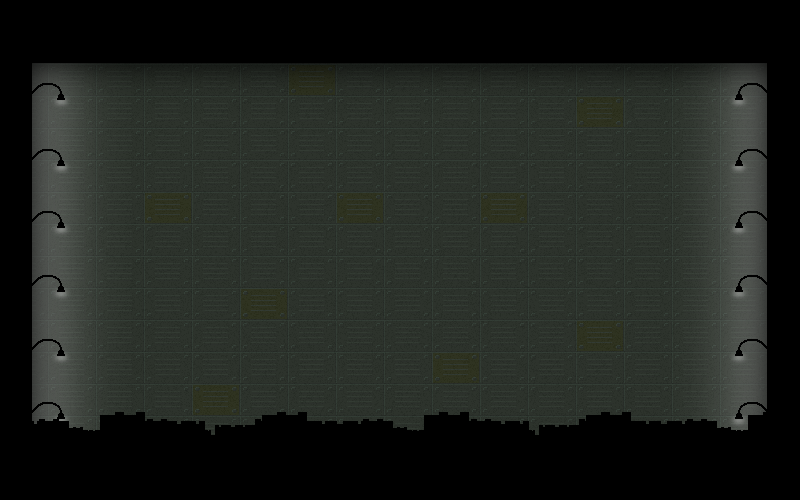
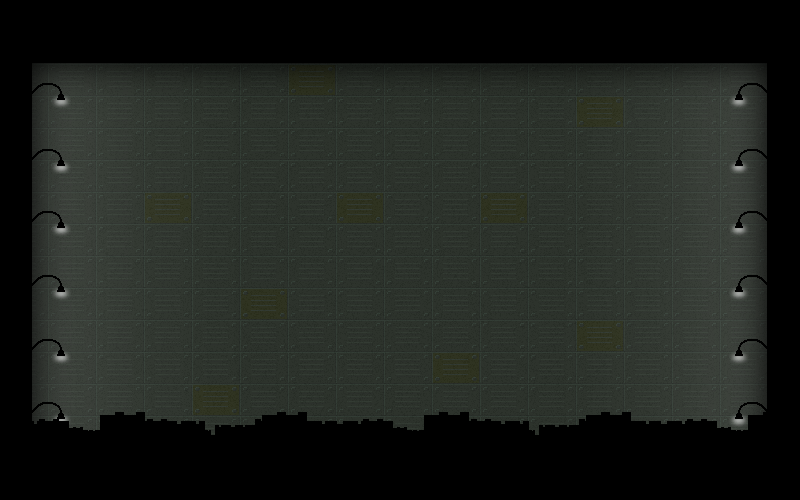
More city, needs walls, will do in the morrow

Changed region(s): [[0.0312, 0.15, 0.0938, 0.84], [0.9062, 0.18, 0.9688, 0.84]]

diff --git a/src/game/Game.js b/src/game/Game.js
@@ -79,8 +79,10 @@ Game = function()
   }; 
   
   
-	if (!is_server)
-		this.map = load_image("map.png");
+	if (!is_server) {
+    this.map = load_image("map.png");
+    this.foreground = load_image("fore.png");
+  }
 }
 
 Game.prototype.toString = function()

diff --git a/src/client/clientGame.web.js b/src/client/clientGame.web.js
@@ -50,4 +50,5 @@ Game.prototype.draw = function()
                       selected.position.x - 6,
                       selected.position.y - 24);
   } 
+  context.drawImage(this.foreground, 0, 0);
 };
